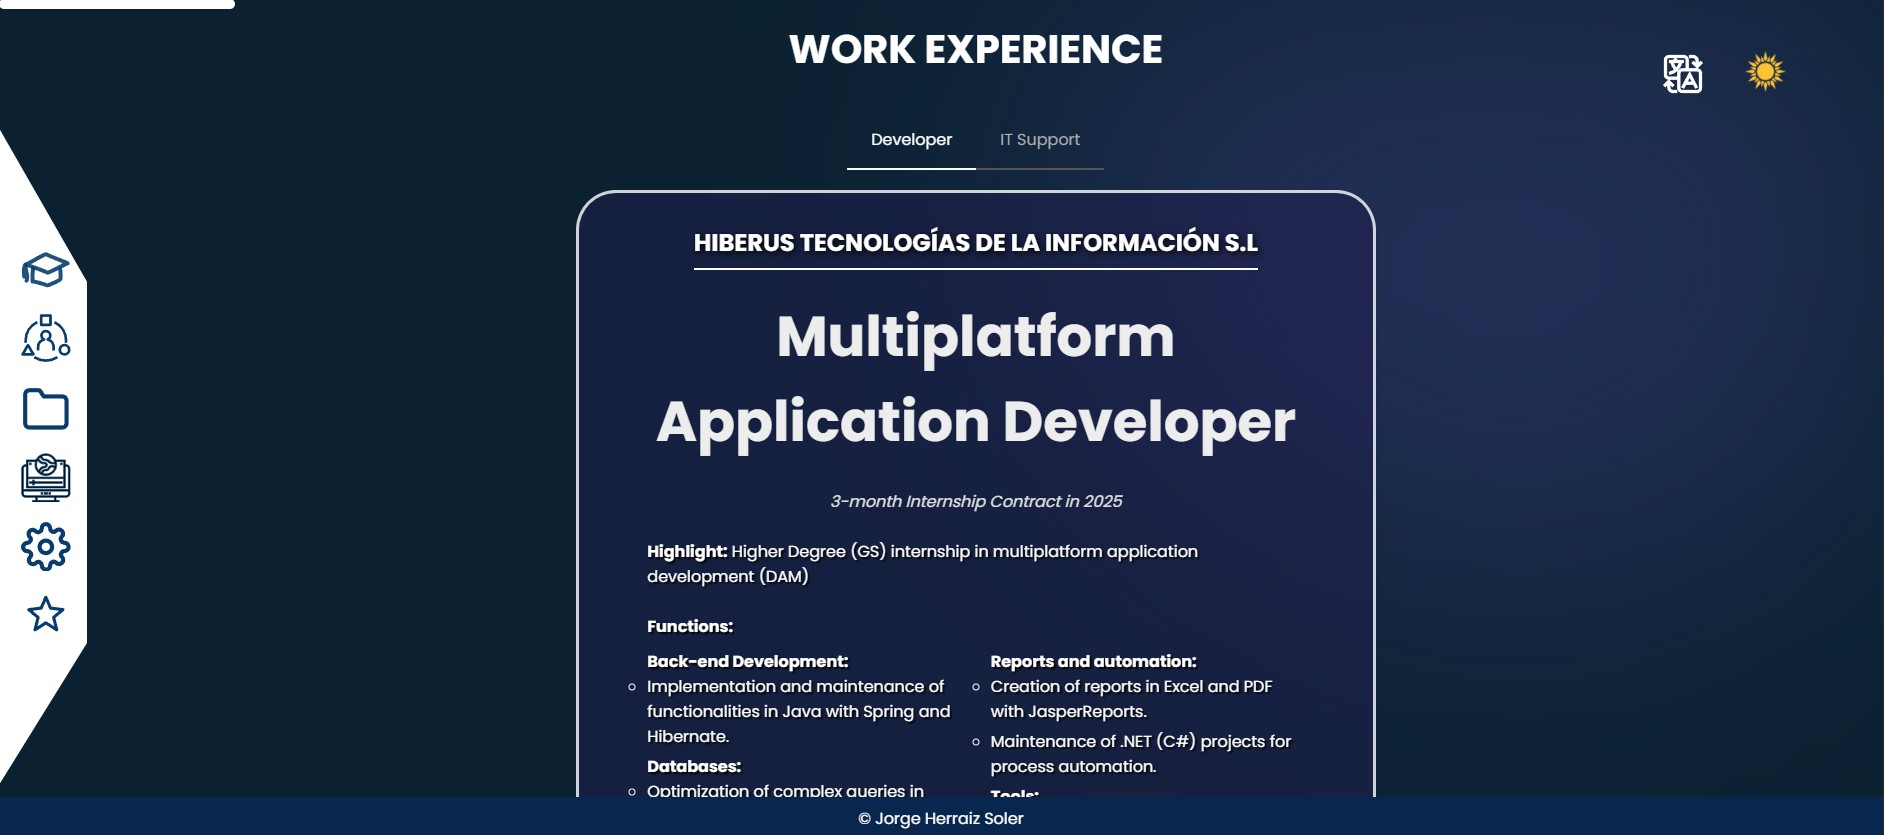
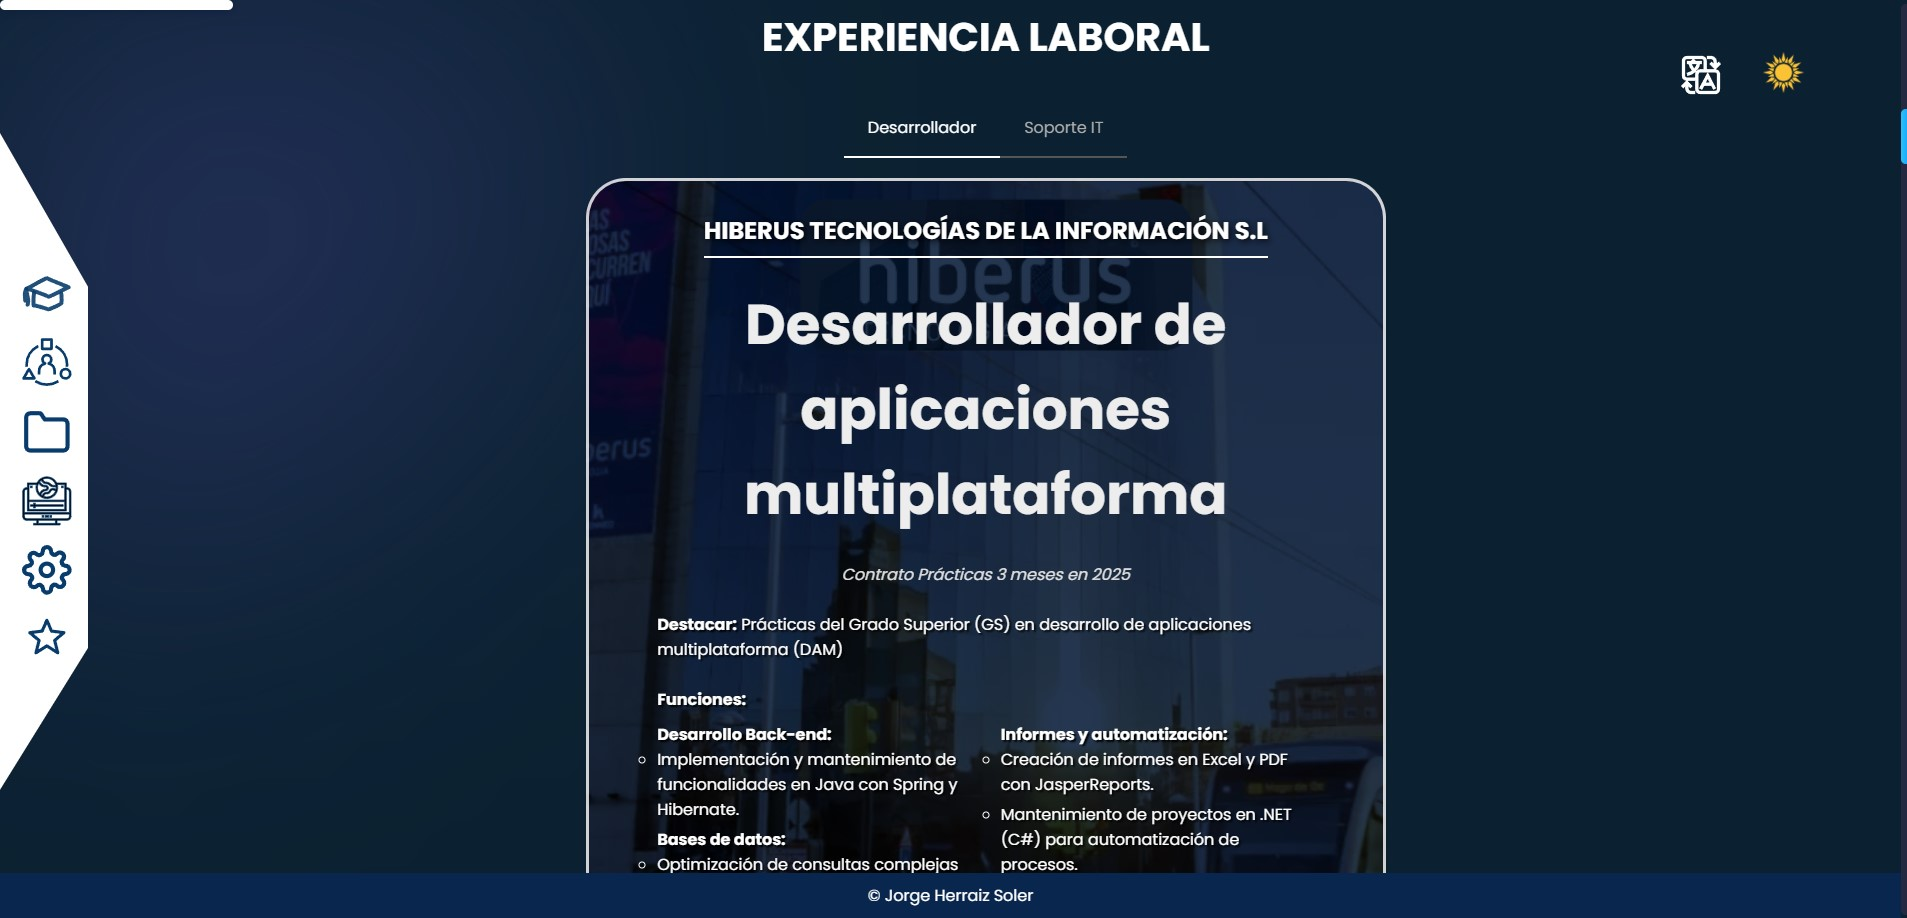
Cambios aplicados imagenes seccion experiencia

diff --git a/app.js b/app.js
@@ -704,6 +704,61 @@ const projectsData = {
       linkedin: "https://lnkd.in/p/dxk_Axrc",
     },
   },
+  
+  
+  "17_es": {
+        title: "Proyecto Frontend Porfolio Jorge Herraiz Soler",
+        content: "Estoy realizando mi porfolio desde cero, estoy materializando mis ideas de aquel porfolio que me gustaría tener, cuáles son las primeras sensaciones y cuidar el contenido. Quiero crear un porfolio que demuestre quien soy, que es lo que hago, cuál es mi iniciativa, mi camino, cuáles son mis valores, principios y el cuidado de los detalles. Me gusta mostrar en el porfolio, el disfrute y estudio constante que estoy desarrollando desde hace 3 años focalizándome en el sector IT. Tecnologías utilizadas: - HTML5 - CSS3 - JavaScript - Shoelace-style para algunos componentes para sección Académica y Experiencia Aprendizaje, elementos o componentes nuevos: - Nav estatico, componente blanco izquierdo con botones de guia por el portafolio (clip-path) - Footer Statico (z-index) - Circulo radius filtro blur cursor, Diseño y UX/UI - Cambio de Idioma Boton / Componente modalidad traductor Ingles y Español - Modo Dark / Light Boton / Componente modalidad Visibilidad / colores - PopUps / Ventanas emergentes Mostrar mas información sobre los proyectos - Sección Académico mejorado - Sección Experiencia mejorado - Sección Proyectos mejorado - Sección Cursos y Certificaciones actualizado - Sección Tecnologías implementado y mejorado - Sección Recomendaciones implementado y mejorado Ultima actualización 19/09/2025 @jherraizsoler",
+        images: [
+          "Media/Proyectos/Proyecto17/imagenPrincipal.jpg",
+          "Media/Proyectos/Proyecto17/imagenPrincipal.jpg",
+          "Media/Proyectos/Proyecto17/imagenPrincipal_componenteAbierto.jpg",
+          "Media/Proyectos/Proyecto17/imagen_Internalización_Ingles_Español.jpg",
+          "Media/Proyectos/Proyecto17/imagen_mode_Dark.jpg",
+          "Media/Proyectos/Proyecto17/imagen_mode_Light.jpg",
+          "Media/Proyectos/Proyecto17/imagen_responsive.jpg",
+          "Media/Proyectos/Proyecto17/imagen_responsive_iphoneSE.jpg",
+          "Media/Proyectos/Proyecto17/imagen_SeccionAcademica_BigData_IA.jpg",
+          "Media/Proyectos/Proyecto17/imagen_SeccionAcademica_Developer.jpg",
+          "Media/Proyectos/Proyecto17/imagen_SeccionAcademica_SoporteIT.jpg",
+          "Media/Proyectos/Proyecto17/imagen_SeccionCursosCertificaciones.jpg",
+          "Media/Proyectos/Proyecto17/imagen_SeccionCursosCertificaciones_2.jpg",
+          "Media/Proyectos/Proyecto17/imagen_SeccionCursosCertificaciones_3.jpg",
+          "Media/Proyectos/Proyecto17/imagen_SeccionCursosCertificaciones_4.jpg",
+          "Media/Proyectos/Proyecto17/imagen_SeccionExperiencia_Developer.jpg",
+          "Media/Proyectos/Proyecto17/imagen_SeccionExperiencia_SoporteIT.jpg",
+          "Media/Proyectos/Proyecto17/imagen_SeccionProyectos.jpg",
+          "Media/Proyectos/Proyecto17/imagen_SeccionProyectos_VentanaEmergente_1.jpg",
+          "Media/Proyectos/Proyecto17/imagen_SeccionProyectos_VentanaEmergente_captura2.jpg",
+          "Media/Proyectos/Proyecto17/imagen_SeccionProyectos_VentanaEmergente_imagenAmpliada.jpg",
+          "Media/Proyectos/Proyecto17/imagen_SeccionRecomendaciones.jpg",
+          "Media/Proyectos/Proyecto17/imagen_SeccionTecnologias_captura1.jpg",
+          "Media/Proyectos/Proyecto17/imagen_SeccionTecnologias_captura2.jpg"
+        ],
+        skills: [
+            "Diseño de experiencia de usuario (UX) y interfaz de usuario (UI)",
+            "Resolución de problemas",
+            "Desarrollo front end",
+            "Desarrollo de software",
+            "Programación",
+            "Gestión documental",
+            "JavaScript",
+            "CSS3",
+            "Liderazgo",
+            "Administración de sistemas y servidores",
+            "Microsoft Visual Studio Code",
+            "Analítico y algorítmico",
+            "Gestión y documentación de proyectos",
+            "HTML5",
+            "Metodologías ágiles",
+            "Planificación de proyectos",
+            "Capacidad de análisis e investigación"
+        ],
+        links: {
+            github: "https://github.com/jherraizsoler/portfolio",
+            linkedin: "https://lnkd.in/p/d87i8hnh"
+        }
+  },
 
   // Ingles
   "1_en": {
@@ -1413,7 +1468,61 @@ const projectsData = {
       linkedin: "https://lnkd.in/p/dxk_Axrc",
     },
   },
-};
+   "17_en": {
+        title: "Frontend Project Portfolio Jorge Herraiz Soler",
+        content: "I am building my portfolio from scratch, materializing my ideas of the portfolio I would like to have, what the first impressions are, and taking care of the content. I want to create a portfolio that shows who I am, what I do, what my initiative is, my path, what my values are, principles, and attention to detail. I like to show in the portfolio the enjoyment and constant study that I have been developing for 3 years, focusing on the IT sector. Technologies used: - HTML5 - CSS3 - JavaScript - Shoelace-style for some components for Academic and Experience sections New learnings, elements or components: - Static Nav, white left-side component with guide buttons for the portfolio (clip-path) - Static Footer (z-index) - Circle radius blur filter cursor, Design and UX/UI - Language Change Button / Translator mode component English and Spanish - Dark / Light Mode Button / Visibility / color mode component - PopUps / Pop-up windows Show more information about the projects - Improved Academic section - Improved Experience section - Improved Projects section - Updated Courses and Certifications section - Implemented and improved Technologies section - Implemented and improved Recommendations section Last updated 19/09/2025 @jherraizsoler",
+        images: [
+          "Media/Proyectos/Proyecto17/imagenPrincipal.jpg",
+          "Media/Proyectos/Proyecto17/imagenPrincipal_componenteAbierto.jpg",
+          "Media/Proyectos/Proyecto17/imagen_Internalización_Ingles_Español.jpg",
+          "Media/Proyectos/Proyecto17/imagen_mode_Dark.jpg",
+          "Media/Proyectos/Proyecto17/imagen_mode_Light.jpg",
+          "Media/Proyectos/Proyecto17/imagen_responsive.jpg",
+          "Media/Proyectos/Proyecto17/imagen_responsive_¡phoneSE.jpg",
+          "Media/Proyectos/Proyecto17/imagen_SeccionAcademica_BigData_IA.jpg",
+          "Media/Proyectos/Proyecto17/imagen_SeccionAcademica_Developer.jpg",
+          "Media/Proyectos/Proyecto17/imagen_SeccionAcademica_SoporteIT.jpg",
+          "Media/Proyectos/Proyecto17/imagen_SeccionCursosCertificaciones.jpg",
+          "Media/Proyectos/Proyecto17/imagen_SeccionCursosCertificaciones_2.jpg",
+          "Media/Proyectos/Proyecto17/imagen_SeccionCursosCertificaciones_3.jpg",
+          "Media/Proyectos/Proyecto17/imagen_SeccionCursosCertificaciones_4.jpg",
+          "Media/Proyectos/Proyecto17/imagen_SeccionExperiencia_Developer.jpg",
+          "Media/Proyectos/Proyecto17/imagen_SeccionExperiencia_SoporteIT.jpg",
+          "Media/Proyectos/Proyecto17/imagen_SeccionProyectos.jpg",
+          "Media/Proyectos/Proyecto17/imagen_SeccionProyectos_VentanaEmergente_1.jpg",
+          "Media/Proyectos/Proyecto17/imagen_SeccionProyectos_VentanaEmergente_captura2.jpg",
+          "Media/Proyectos/Proyecto17/imagen_SeccionProyectos_VentanaEmergente_imagenAmpliada.jpg",
+          "Media/Proyectos/Proyecto17/imagen_SeccionRecomendaciones.jpg",
+          "Media/Proyectos/Proyecto17/imagen_SeccionTecnologias_captura1.jpg",
+          "Media/Proyectos/Proyecto17/imagen_SeccionTecnologias_captura2.jpg"
+        ],
+        skills: [
+            "User Experience (UX) and User Interface (UI) Design",
+            "Problem Solving",
+            "Front-end Development",
+            "Software Development",
+            "Programming",
+            "Document Management",
+            "JavaScript",
+            "CSS3",
+            "Leadership",
+            "Systems and Server Administration",
+            "Microsoft Visual Studio Code",
+            "Analytical and Algorithmic",
+            "Project Management and Documentation",
+            "HTML5",
+            "Agile Methodologies",
+            "Project Planning",
+            "Analytical and Research Skills"
+        ],
+        links: {
+            github: "https://github.com/jherraizsoler/portfolio",
+            linkedin: "https://lnkd.in/p/d87i8hnh"
+        }
+    }
+ };
+
+
 
 // 2. Referencias a los elementos del DOM (se agrega el visor de imágenes)
 const articlesContainer = document.getElementById("contenedorArticulos");

diff --git a/indexSpanish.html b/indexSpanish.html
@@ -330,7 +330,7 @@
                                 <li>FORMACIÓN EN CENTROS DE TRABAJO (FCT)</li>
                             </ul>
                         </div>
-                        <a href="https://todofp.es/que-estudiar/ciclos/informatica-comunicaciones/sistemas-microniformaticos-redes.html"
+                        <a href="https://www.todofp.es/que-estudiar/familias-profesionales/informatica-comunicaciones/des-aplicaciones-multiplataforma.html"
                             target="_blank" class="panel-link">Saber más</a>
                     </div>
                 </sl-tab-panel>
@@ -351,7 +351,7 @@
                                 <li>Big Data aplicado.</li>
                             </ul>
                         </div>
-                        <a href="#" target="_blank" class="panel-link">Saber más</a>
+                        <a href="https://www.todofp.es/que-estudiar/familias-profesionales/informatica-comunicaciones/ce-inteligencia-artificial-bigdata.html" target="_blank" class="panel-link">Saber más</a>
                     </div>
                 </sl-tab-panel>
 
@@ -378,7 +378,7 @@
                                 <li>FORMACIÓN EN CENTROS DE TRABAJO (FCT)</li>
                             </ul>
                         </div>
-                        <a href="https://todofp.es/que-estudiar/ciclos/informatica-comunicaciones/sistemas-microniformaticos-redes.html"
+                        <a href="https://www.todofp.es/que-estudiar/familias-profesionales/informatica-comunicaciones/sistemas-microniformaticos-redes.html"
                             target="_blank" class="panel-link">Saber más</a>
                     </div>
                 </sl-tab-panel>
@@ -496,7 +496,7 @@
                             </ul>
                         </div>
                         <br>
-                        <a href="https://www.hiberus.com/soluciones/gisir?gad_campaignid=88008915&gad_source=1&gbraid=0AAAAADvFRD2OP7scb96A6d2Im4zm7v-x4&gclid=CjwKCAjwlaTGBhANEiwAoRgXBamcgGG6PJ5ftQBZKFm_KhVvONLcXThUU36kLl11EmrdnKU5bQBWERoCG4cQAvD_BwE&utm_content=cuentaESP"
+                        <a href="https://www.k-tuin.com/"
                             target="_blank" class="panel-link">Saber más</a>
                     </div>
                 </sl-tab-panel>
@@ -635,6 +635,14 @@
                     </figure>
                     <div class="article-preview">
                         <h2>Proyecto FullStack App Web ShopFlow - Gestión Integral de Tiendas</h2>
+                    </div>
+                </article>
+                 <article class="project-card" data-project-id="17_es">
+                    <figure>
+                        <img src="Media/Proyectos/Proyecto17/imagenPrincipal.jpg" alt="Preview">
+                    </figure>
+                    <div class="article-preview">
+                        <h2>Proyecto Frontend Porfolio Jorge Herraiz Soler</h2>
                     </div>
                 </article>
 

diff --git a/styleindex.css b/styleindex.css
@@ -1938,12 +1938,12 @@ sl-tab-panel[name="bigdata_ia"] .info-panel {
 
 /* Estilos para el panel de Desarrollador */
 sl-tab-panel[name="desarrolladorExperiencia"] .info-panel {
-  background-color: var(--sl-background-hiberus); 
+  background-image: url('./Media/oficinas_central_hiberus.png');
 }
 
 /* Estilos para el panel de Soporte IT */
 sl-tab-panel[name="soporte_itExperiencia"] .info-panel {
-  background-color: var(--sl-background-ktuin);
+  background-image: url('./Media/oficinas_central_ktuin.png');
 }
 /* Clase base para los estilos de texto comunes */
 .panel-text-base {
